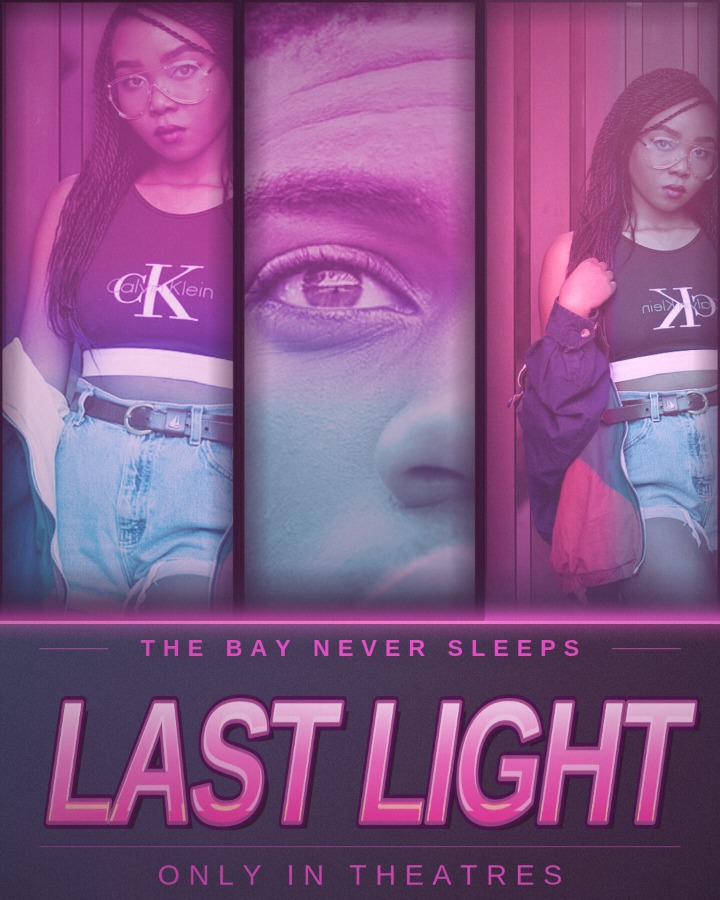
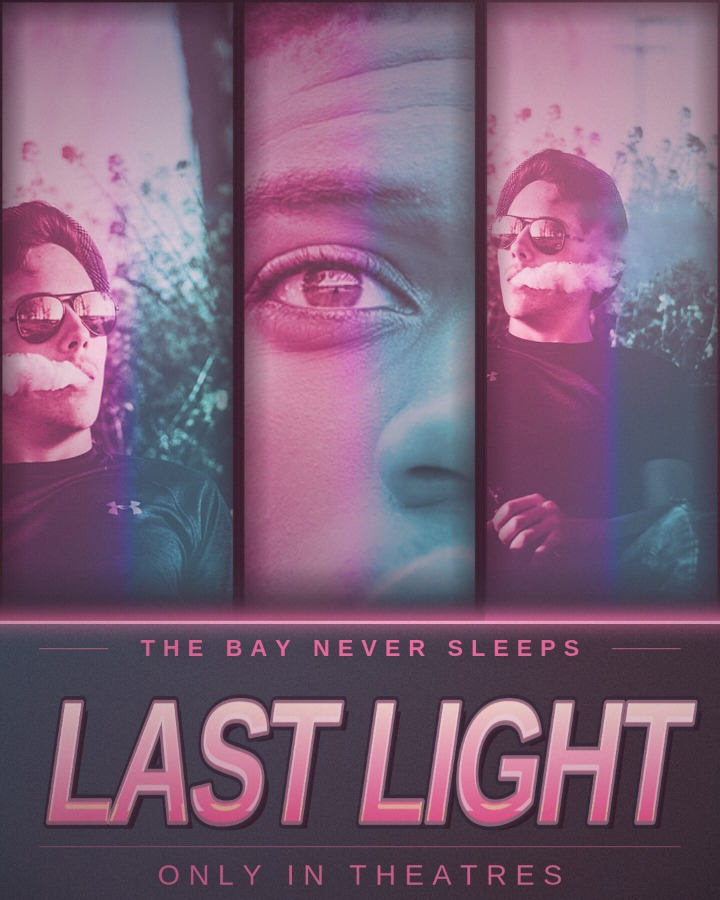
Grade the covers neon so the art matches the tagline

diff --git a/app/src/grades.js b/app/src/grades.js
@@ -48,6 +48,111 @@ function clamp01(value) {
 }
 
 /**
+ * A band of light lying across the frame: wide, thin, and brightest in the middle, the smear a row of signs leaves
+ * in the air. It is a radial glow squashed to a fraction of its height, so it reads as a horizontal streak rather
+ * than another round lamp, and it is screened over the photograph so it lights the panel instead of covering it.
+ */
+function bloomBand(ctx, w, h, cx, cy, spread, colour, tone) {
+  const ink = parseColour(colour);
+  const peak = clamp01(ink.a);
+  ctx.save();
+  ctx.globalCompositeOperation = 'screen';
+  ctx.globalAlpha = tone.a(1);
+  ctx.translate(w * cx, h * cy);
+  ctx.scale(1, 0.12);
+  const band = ctx.createRadialGradient(0, 0, 0, 0, 0, Math.max(1, w * spread));
+  band.addColorStop(0, tone.c(setAlpha(ink, peak)));
+  band.addColorStop(0.42, tone.c(setAlpha(ink, peak * 0.45)));
+  band.addColorStop(1, tone.c(setAlpha(ink, 0)));
+  ctx.fillStyle = band;
+  ctx.fillRect(-w * 1.5, -h * 12, w * 3, h * 24);
+  ctx.restore();
+}
+
+/**
+ * The two-ink print, as a true gradient map: every pixel's own luminance is looked up in a ramp built from `stops`
+ * — [position, colour] pairs running from the shadow ink through whatever the grade wants in the middle to the
+ * highlight ink — so a dark pixel comes out the shadow colour and a lit pixel the highlight, wherever they sit in
+ * the frame. That is what lets the shadows be cyan and the light pink at the same time; a wash laid over the panel
+ * cannot do it, because a wash has no idea which pixels are dark. `rightStops`, when given, is a second ramp that
+ * the print runs into from the left edge to the right, which is how the vice grade gets pink on one side of the
+ * frame and turquoise on the other while both sides keep the same shadow ink. `gamma` lifts or sinks the middle of
+ * the ramp. The panel bitmap is cached by its caller, so the pixels are walked only when the shot, the crop or the
+ * grade actually changes.
+ */
+function inkMap(ctx, w, h, stops, rightStops, gamma = 1) {
+  const width = Math.max(1, Math.round(w));
+  const height = Math.max(1, Math.round(h));
+  const curve = Math.min(4, Math.max(0.2, gamma));
+
+  // One 256-entry ramp per side, interpolated between that side's stops.
+  const buildRamp = (list) => {
+    const inks = list
+      .map(([at, colour]) => ({ at: clamp01(at), ink: parseColour(colour) }))
+      .sort((first, second) => first.at - second.at);
+    const ramp = new Uint8ClampedArray(256 * 3);
+    if (!inks.length) return ramp;
+    for (let step = 0; step < 256; step += 1) {
+      const t = Math.pow(step / 255, curve);
+      let index = 0;
+      while (index < inks.length - 2 && t > inks[index + 1].at) index += 1;
+      const from = inks[index];
+      const to = inks[Math.min(inks.length - 1, index + 1)];
+      const span = Math.max(1e-6, to.at - from.at);
+      const k = clamp01((t - from.at) / span);
+      ramp[step * 3] = from.ink.r + (to.ink.r - from.ink.r) * k;
+      ramp[step * 3 + 1] = from.ink.g + (to.ink.g - from.ink.g) * k;
+      ramp[step * 3 + 2] = from.ink.b + (to.ink.b - from.ink.b) * k;
+    }
+    return ramp;
+  };
+  const left = buildRamp(stops);
+  const right = rightStops ? buildRamp(rightStops) : left;
+
+  let image = null;
+  try {
+    image = ctx.getImageData(0, 0, width, height);
+  } catch {
+    return; // A canvas the browser will not let us read keeps the photograph as it was drawn.
+  }
+  const { data } = image;
+  const pixels = Math.max(1, data.length / 4);
+
+  // Levels: the picture's own 2nd and 98th percentile of luminance become the ends of the ramp, so a flat or hazy
+  // photograph still reaches both inks. Without this a low-contrast crop sits in the middle of the ramp and the
+  // whole panel comes out one flat violet, which is exactly the wash this grade is trying to get away from.
+  const histogram = new Uint32Array(256);
+  for (let i = 0; i < data.length; i += 4) {
+    histogram[Math.round(0.2126 * data[i] + 0.7152 * data[i + 1] + 0.0722 * data[i + 2])] += 1;
+  }
+  const cut = Math.max(1, Math.round(pixels * 0.02));
+  let low = 0;
+  let high = 255;
+  let seen = 0;
+  for (let step = 0; step < 256; step += 1) {
+    seen += histogram[step];
+    if (seen >= cut) { low = step; break; }
+  }
+  seen = 0;
+  for (let step = 255; step >= 0; step -= 1) {
+    seen += histogram[step];
+    if (seen >= cut) { high = step; break; }
+  }
+  const span = Math.max(8, high - low);
+
+  for (let i = 0; i < data.length; i += 4) {
+    const luminance = 0.2126 * data[i] + 0.7152 * data[i + 1] + 0.0722 * data[i + 2];
+    const step = Math.round(Math.pow(clamp01((luminance - low) / span), curve) * 255) * 3;
+    const column = (i / 4) % width;
+    const across = width > 1 ? column / (width - 1) : 0;
+    data[i] = left[step] + (right[step] - left[step]) * across;
+    data[i + 1] = left[step + 1] + (right[step + 1] - left[step + 1]) * across;
+    data[i + 2] = left[step + 2] + (right[step + 2] - left[step + 2]) * across;
+  }
+  ctx.putImageData(image, 0, 0);
+}
+
+/**
  * A tone is how a grade is worn: `shift` moves every hue in the recipe this many degrees, `heat` scales every
  * wash's strength, and `depth` sinks the shadows. `c()` returns the tone's version of a colour, `a()` its version
  * of an alpha. Tones are immutable, so one can be handed round freely.
@@ -107,28 +212,37 @@ function sunset(ctx, w, h, tone) {
   ]), 'multiply', tone.a(1));
 }
 
-// 2. Neon: hot pink light in the highlights, electric cyan down in the shadows.
+// 2. Neon: hot pink light in the highlights, electric cyan down in the shadows, and the streak of a night street's
+// signs lying across the frame at the height of the lamp.
 function neon(ctx, w, h, tone) {
-  duotone(ctx, w, h, linear(ctx, 0, 0, 0, h, [
-    [0, tone.c('#ff2fb4')],
-    [0.4, tone.c('#ff2fb4')],
-    [0.52, tone.c('#7a2cff')],
-    [0.66, tone.c('#00c8ff')],
-    [1, tone.c('#00e5ff')],
-  ]), tone.a(0.5));
-  paint(ctx, w, h, radial(ctx, w * 0.74, h * 0.14, 0, Math.max(w, h) * 0.74, [
-    [0, tone.c('rgba(255,80,214,0.6)')],
+  // The street's light, laid on the photograph first: a hot pink lamp up in the top right where the signs are, and
+  // the bloom those signs smear across the frame. Lighting the plate before it is printed is what keeps the shadows
+  // cyan — a pink glow added after the print would wash its red straight down into them.
+  paint(ctx, w, h, radial(ctx, w * 0.74, h * 0.14, 0, Math.max(w, h) * 0.8, [
+    [0, tone.c('rgba(255,64,208,0.6)')],
+    [0.5, tone.c('rgba(255,40,180,0.2)')],
     [1, tone.c('rgba(255,40,180,0)')],
-  ]), 'screen', tone.a(0.9));
-  paint(ctx, w, h, radial(ctx, w * 0.18, h, 0, Math.max(w, h) * 0.72, [
-    [0, tone.c('rgba(0,226,255,0.5)')],
-    [1, tone.c('rgba(0,180,255,0)')],
-  ]), 'screen', tone.a(0.8));
-  paint(ctx, w, h, linear(ctx, 0, h * 0.5, w, h, [
-    [0, tone.c('rgba(0,0,0,0)')],
-    [0.7, tone.c('rgba(120,60,255,0.16)')],
-    [1, tone.c('rgba(255,90,200,0.3)')],
-  ]), 'color-dodge', tone.a(0.45));
+  ]), 'screen', tone.a(0.95));
+  bloomBand(ctx, w, h, 0.62, 0.2, 0.7, 'rgba(255,110,232,0.32)', tone);
+
+  // The print: two inks keyed to the light now in the plate — deep teal in the shadows, electric cyan through the
+  // lower mids, violet where the inks cross, hot magenta up in the light. Shadows come out cyan and lit skin comes
+  // out pink whatever the photograph was, which is what makes it read as neon instead of as a filter.
+  inkMap(ctx, w, h, [
+    [0, tone.c('#01101c')],
+    [0.26, tone.c('#023a52')],
+    [0.44, tone.c('#0f93c4')],
+    [0.6, tone.c('#6a2ee0')],
+    [0.76, tone.c('#ff2f9e')],
+    [0.9, tone.c('#ff6cc4')],
+    [1, tone.c('#ffc2e6')],
+  ], null, 0.95);
+
+  // The wet street: cyan multiplied into the foot of the print, so the pavement cools without the shadows lifting.
+  paint(ctx, w, h, linear(ctx, 0, h * 0.52, 0, h, [
+    [0, tone.c('rgba(0,130,255,0)')],
+    [1, tone.c('rgba(0,150,255,0.34)')],
+  ]), 'multiply', tone.a(1));
 }
 
 // 3. Dusk: deep violet and indigo, cool and moody.
@@ -176,28 +290,32 @@ function gold(ctx, w, h, tone) {
   ]), 'multiply', tone.a(1));
 }
 
-// 5. Vice: pink from the west, turquoise from the east, a hard split across the frame.
+// 5. Vice: pink from the west, turquoise from the east, a hard split across the frame, and two bloom bands lying
+// where the signs are.
 function vice(ctx, w, h, tone) {
   duotone(ctx, w, h, linear(ctx, 0, 0, w, 0, [
-    [0, tone.c('#ff3d92')],
-    [0.38, tone.c('#ff3d92')],
-    [0.5, tone.c('#c02a8a')],
-    [0.62, tone.c('#00c8cc')],
-    [1, tone.c('#00d8d8')],
-  ]), tone.a(0.5));
+    [0, tone.c('#ff2f8e')],
+    [0.34, tone.c('#ff2f8e')],
+    [0.48, tone.c('#c02ad8')],
+    [0.62, tone.c('#00b6e6')],
+    [1, tone.c('#00ecec')],
+  ]), tone.a(0.64));
   paint(ctx, w, h, linear(ctx, 0, 0, w, h, [
-    [0, tone.c('rgba(255,60,140,0.5)')],
-    [0.48, tone.c('rgba(255,60,140,0)')],
-    [1, tone.c('rgba(0,220,230,0.5)')],
+    [0, tone.c('rgba(255,60,140,0.56)')],
+    [0.46, tone.c('rgba(255,60,140,0)')],
+    [1, tone.c('rgba(0,224,232,0.56)')],
   ]), 'soft-light', tone.a(0.95));
   paint(ctx, w, h, radial(ctx, w * 0.12, h * 0.12, 0, Math.max(w, h) * 0.6, [
-    [0, tone.c('rgba(255,80,150,0.5)')],
+    [0, tone.c('rgba(255,80,150,0.58)')],
     [1, tone.c('rgba(255,60,140,0)')],
   ]), 'screen', tone.a(0.7));
   paint(ctx, w, h, radial(ctx, w, h, 0, Math.max(w, h) * 0.62, [
-    [0, tone.c('rgba(0,226,232,0.42)')],
+    [0, tone.c('rgba(0,226,232,0.5)')],
     [1, tone.c('rgba(0,200,220,0)')],
   ]), 'screen', tone.a(0.65));
+  // Two streaks: the pink of the west side and the turquoise of the east, each at its own height.
+  bloomBand(ctx, w, h, 0.28, 0.16, 0.6, 'rgba(255,86,168,0.46)', tone);
+  bloomBand(ctx, w, h, 0.74, 0.34, 0.56, 'rgba(0,224,236,0.42)', tone);
   paint(ctx, w, h, linear(ctx, 0, 0, 0, h, [
     [0, tone.c('rgba(40,4,50,0.3)')],
     [0.55, tone.c('rgba(0,0,0,0)')],
@@ -245,10 +363,11 @@ export const GRADES = [
     name: 'Neon',
     hint: 'Cyan shadows, hot pink light',
     accent: '#ff4fd8',
-    glow: 'rgba(255,60,200,0.60)',
+    sun: '#4fe4ff',
+    glow: 'rgba(255,70,210,0.62)',
     heat: 1,
-    filter: 'saturate(1.42) contrast(1.12) hue-rotate(-8deg)',
-    palette: { top: '#fff0fb', mid: '#ff7ac8', bottom: '#ff2f9e', outline: '#22002e' },
+    filter: 'saturate(1.56) contrast(1.14) hue-rotate(-6deg)',
+    palette: { top: '#fff0fb', mid: '#ff7ac8', bottom: '#ff2f9e', outline: '#04161f' },
     apply: neon,
   },
   {
@@ -278,10 +397,11 @@ export const GRADES = [
     name: 'Vice',
     hint: 'Pink and turquoise',
     accent: '#ff6fa8',
-    glow: 'rgba(255,90,150,0.60)',
-    heat: 0.94,
-    filter: 'saturate(1.36) contrast(1.08)',
-    palette: { top: '#fff4e2', mid: '#ffb1c9', bottom: '#ff4f92', outline: '#2a0318' },
+    sun: '#6ff0ff',
+    glow: 'rgba(255,90,160,0.62)',
+    heat: 1,
+    filter: 'saturate(1.5) contrast(1.1)',
+    palette: { top: '#fff4e2', mid: '#ffb1c9', bottom: '#ff4f92', outline: '#04161f' },
     apply: vice,
   },
   {
@@ -309,18 +429,26 @@ const AUTO_GRADE_IDS = ['sunset', 'vice', 'gold', 'dusk', 'neon'];
 
 export const AUTO_GRADES = AUTO_GRADE_IDS.map((id) => getGrade(id));
 
+/** The two cool, magenta grades a cover may be keyed in: the neon night, and the vice pink-and-turquoise split. */
+const NEON_GRADE_IDS = ['neon', 'vice'];
+
+export const NEON_GRADES = NEON_GRADE_IDS.map((id) => getGrade(id));
+
 /**
- * The key grade for a cover: of the colourful grades, the one whose accent hue sits closest to `hue` — the hero
- * photograph's own dominant hue. The whole cover is graded in this one grade, so the choice decides the colour
- * story for every panel and for the title band.
+ * The key grade for a cover. A cover is graded neon-first: the candidates are `neon` and `vice`, the two grades
+ * that put cyan in the shadows and magenta in the light, and the one whose accent hue sits *furthest* from `hue` —
+ * the hero photograph's own dominant hue — wins. Taking the far one is what makes the grade a transformation: a
+ * warm amber photograph is carried all the way over to magenta and cyan instead of being nudged a few degrees
+ * toward a grade that was already almost its own colour. The whole cover is graded in this one grade, so the
+ * choice decides the colour story for every panel and for the title band.
  */
 export function keyGradeForHue(hue) {
   const target = Number.isFinite(hue) ? ((hue % 360) + 360) % 360 : 28;
-  let best = AUTO_GRADES[0];
-  let bestGap = Number.POSITIVE_INFINITY;
-  for (const grade of AUTO_GRADES) {
+  let best = NEON_GRADES[0];
+  let bestGap = -1;
+  for (const grade of NEON_GRADES) {
     const gap = hueGap(target, hueOfColour(grade.accent));
-    if (gap < bestGap) {
+    if (gap > bestGap) {
       best = grade;
       bestGap = gap;
     }
@@ -391,12 +519,13 @@ function vignette(ctx, w, h, strength, colour) {
 }
 
 /**
- * The light every panel shares: a warm glow falling from the same point in the frame (so all the prints are lit
- * from the same side and carry the same warmth in their highlights), a multiply wash for the deeper tones, and the
- * one vignette shape. Because the shape never varies, five panels read as one photograph rather than five grades.
+ * The light every panel shares: a glow falling from the same point in the frame (so all the prints are lit from the
+ * same side), a multiply wash for the deeper tones, and the one vignette shape. The glow is the grade's own `sun`
+ * when it names one — the neon grades light the frame with a cool street lamp rather than a warm one — and its
+ * accent otherwise. Because the shape never varies, five panels read as one photograph rather than five grades.
  */
 function sharedLight(ctx, w, h, grade, tone) {
-  const accent = grade.accent;
+  const accent = grade.sun ?? grade.accent;
   paint(ctx, w, h, radial(ctx, w * SUN.x, h * SUN.y, 0, Math.max(w, h) * 0.9, [
     [0, tone.c(setAlpha(accent, 0.2))],
     [0.42, tone.c(setAlpha(accent, 0.08))],

diff --git a/app/src/shotplan.js b/app/src/shotplan.js
@@ -11,10 +11,12 @@
 // subject — at a clearly different magnification, centred on a different part of the frame, and mirrored, so two
 // panels of the same person never read as the same crop twice.
 //
-// Colour is planned as one story, not five: the hero photograph's own dominant hue picks the key grade, and each
-// panel is dealt a member of that grade's narrow family — grades inside 45 degrees of the key's accent, or the key
-// grade itself moved ±12 and ±24 degrees, with heat and depth varying. Two touching panels never wear the same
-// member. Everything is derived from the state's seeded generator, so a document always plans the same way.
+// Colour is planned as one story, not five, and that story is neon: of the two cool grades — `neon` and `vice` —
+// the one whose accent hue sits furthest from the hero photograph's own dominant hue becomes the key, so the grade
+// transforms the photograph instead of blending into it. Each panel is then dealt a member of that grade's narrow
+// family — grades inside 45 degrees of the key's accent, or the key grade itself moved ±12 and ±24 degrees, with
+// heat and depth varying. Two touching panels never wear the same member. Everything is derived from the state's
+// seeded generator, so a document always plans the same way.
 
 import { gradeFamily, keyGradeForHue } from './grades.js';
 import { getLayout } from './layouts.js';
@@ -256,10 +258,11 @@ export function planPanels(state) {
     };
   }
 
-  // Colour: one grade for the whole cover, chosen so its accent hue sits closest to the hue the hero photograph
-  // already has. Every panel is then dealt a member of that grade's family — the same colour story a few degrees
-  // cooler or warmer, hotter or deeper — so the collage varies in intensity and never in hue family. A member is
-  // only ever repeated where two panels do not touch.
+  // Colour: one grade for the whole cover, and it is always one of the two neon grades. The one whose accent hue
+  // sits furthest from the hue the hero photograph already has wins, so the grading carries the picture over to
+  // cyan and magenta rather than agreeing with it. Every panel is then dealt a member of that grade's family — the
+  // same colour story a few degrees cooler or warmer, hotter or deeper — so the collage varies in intensity and
+  // never in hue family. A member is only ever repeated where two panels do not touch.
   const heroPhoto = photoCount ? state.photos[0] : null;
   const keyGrade = keyGradeForHue(heroPhoto ? dominantHue(heroPhoto.image) : NEUTRAL_HUE);
   const family = gradeFamily(keyGrade);

diff --git a/app/src/photoHue.js b/app/src/photoHue.js
@@ -1,8 +1,9 @@
 // The hue a photograph already has.
 //
-// The key grade of a cover is chosen by matching a grade's accent hue to the hero photograph's own dominant hue,
-// so the grading grows out of the picture instead of being laid over it. The measurement is taken once per image
-// on a 32 x 32 reduction: every cell votes for its hue, weighted by how saturated and how bright it is, because a
+// The key grade of a cover is chosen by comparing the hero photograph's own dominant hue with the accent hues of
+// the two neon grades, and taking the one furthest away, so the grading carries the picture over to cyan and
+// magenta instead of being laid over it in a colour it already had. The measurement is taken once per image on a
+// 32 x 32 reduction: every cell votes for its hue, weighted by how saturated and how bright it is, because a
 // saturated mid-tone is what the eye reads as "the colour" of a frame — a dark corner or a blown highlight is not.
 
 import { hueOfRgb } from './colour.js';
